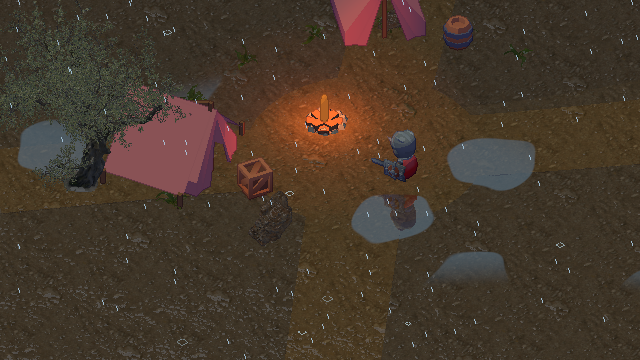
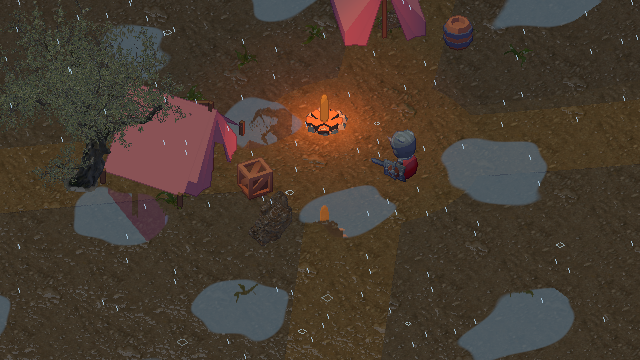
Distribute puddles across terrain and add player footfall water splashes

diff --git a/Assets/Editor/PuddleWorldVerification.cs b/Assets/Editor/PuddleWorldVerification.cs
@@ -1,0 +1,79 @@
+using System;
+using System.Collections.Generic;
+using System.IO;
+using UnityEditor;
+using UnityEditor.SceneManagement;
+using UnityEngine;
+
+namespace PixelArtLab.Editor
+{
+    public static class PuddleWorldVerification
+    {
+        static int stage,baseline;static float started;static double timeout;
+        static WorldEnvironment env;static PuddleFootsteps steps;static ExplorerMotor player;
+        static Vector3 wetPoint;static readonly List<string> report=new List<string>();
+        static void Require(bool condition,string message){if(!condition)throw new Exception(message);}
+        public static void Distribution()
+        {
+            EditorSceneManager.OpenScene(DetailedWoodlandBuilder.ScenePath);env=UnityEngine.Object.FindFirstObjectByType<WorldEnvironment>();env.SetWeather(ValleyWeather.Rain,true);env.hour=13;env.Apply();
+            int pools=0,outside=0;float min=100,max=-100;var quadrants=new int[4];
+            for(int x=-68;x<=68;x+=2)for(int z=-68;z<=68;z+=2)
+            {
+                if(!PuddleSurface.Ground(new Vector3(x,OpenWorldSceneBuilder.Height(x,z)+.1f,z),out var hit))continue;
+                if(PuddleSurface.Coverage(hit.point,hit.normal,1,0)<.5f)continue;
+                pools++;min=Mathf.Min(min,hit.point.y);max=Mathf.Max(max,hit.point.y);if(Mathf.Abs(hit.point.y-1.1f)>.3f)outside++;quadrants[(x>0?1:0)+(z>0?2:0)]++;
+            }
+            Require(outside>200&&max-min>1,"Puddles still constrained to altitude band");foreach(int n in quadrants)Require(n>50,"Missing puddles in a map quadrant");
+            var camera=env.worldCamera;camera.aspect=640f/360;camera.orthographicSize=58;camera.transform.position=new Vector3(0,1,0)-camera.transform.forward*100;camera.farClipPlane=260;
+            var reflection=GameObject.Find("Walkable hills and connected trails").GetComponent<DetailWaterReflection>();reflection.Refresh();OpenWorldSceneBuilder.Capture(camera,"Previews/32-Mapwide-Rain-Puddles.png");
+            File.WriteAllText("Previews/Puddle-Distribution-Verification.txt",$"MAPWIDE_PUDDLES_SUCCESS\nWet samples: {pools}; outside old height band: {outside}\nHeight range: {min:F2}m to {max:F2}m\nQuadrants: {string.Join(", ",quadrants)}\nAll four quadrants and multiple elevations: PASS\nNO PLAYER BUILD\n");Debug.Log("MAPWIDE_PUDDLES_SUCCESS");
+        }
+        public static void Play(){EditorSceneManager.OpenScene(DetailedWoodlandBuilder.ScenePath);SessionState.SetBool("Puddle.Verify",true);EditorApplication.isPlaying=true;}
+        [InitializeOnLoadMethod]static void Resume(){if(SessionState.GetBool("Puddle.Verify",false)){stage=0;timeout=EditorApplication.timeSinceStartup+60;EditorApplication.update+=Tick;}}
+        static void Tick()
+        {
+            if(!Application.isPlaying)return;
+            try
+            {
+                Require(EditorApplication.timeSinceStartup<timeout,"Puddle interaction test timed out at stage "+stage);
+                if(stage==0)
+                {
+                    env=UnityEngine.Object.FindFirstObjectByType<WorldEnvironment>();steps=UnityEngine.Object.FindFirstObjectByType<PuddleFootsteps>();player=env.player;
+                    Require(steps,"Footstep component not saved");env.runClock=false;env.hour=13;env.SetWeather(ValleyWeather.Rain,true);player.externalControl=true;player.externalMove=Vector2.zero;
+                    Vector3 forward=player.cameraTransform.forward;forward.y=0;forward.Normalize();bool found=false;
+                    for(int x=-15;x<=15&&!found;x++)for(int z=-15;z<=15&&!found;z++)
+                    {
+                        Vector3 p=new Vector3(x,OpenWorldSceneBuilder.Height(x,z)+.1f,z);if(!PuddleSurface.Ground(p,out var hit)||PuddleSurface.Coverage(hit.point,hit.normal,1,0)<.95f)continue;
+                        bool fits=true;for(float d=0;d<2;d+=.35f){Vector3 q=hit.point+forward*d;if(!PuddleSurface.Ground(q,out var h)||PuddleSurface.Coverage(h.point,h.normal,1,0)<.7f)fits=false;}
+                        if(fits){wetPoint=hit.point;found=true;}
+                    }
+                    Require(found,"No walkable water patch found");player.Teleport(wetPoint+Vector3.up*.1f);started=Time.time;stage=1;
+                }
+                else if(stage==1&&Time.time-started>.8f)
+                {
+                    Require(player.Grounded,"Player did not settle");baseline=steps.EmittedCount;player.externalMove=Vector2.up;started=Time.time;stage=2;
+                }
+                else if(stage==2&&steps.EmittedCount>baseline)
+                {
+                    player.externalMove=Vector2.zero;steps.Refresh(Time.time+.32f);Require(steps.GetComponent<MeshFilter>().sharedMesh.vertexCount>40,"No ring / droplet geometry");
+                    var reflection=GameObject.Find("Walkable hills and connected trails").GetComponent<DetailWaterReflection>();reflection.Refresh();OpenWorldSceneBuilder.Capture(env.worldCamera,"Previews/33-Puddle-Footstep-Splash.png");
+                    report.Add("Walking on visible water emits expanding rings and droplets: PASS");started=Time.time;stage=3;
+                }
+                else if(stage==3&&Time.time-started>1.2f)
+                {
+                    Require(steps.GetComponent<MeshFilter>().sharedMesh.vertexCount==0,"Old splash geometry did not expire");baseline=steps.EmittedCount;
+                    env.SetWeather(ValleyWeather.Clear,true);Require(!steps.TryStep(wetPoint),"Dry ground emitted a splash");env.SetWeather(ValleyWeather.Snow,true);Require(!steps.TryStep(wetPoint),"Snow emitted a splash");Require(steps.EmittedCount==baseline,"Dry / snow changed splash count");report.Add("Stopped rings expire; dry ground and snow suppress splashes: PASS");
+                    env.SetWeather(ValleyWeather.Rain,true);player.Teleport(wetPoint+Vector3.up*.1f);started=Time.time;stage=4;
+                }
+                else if(stage==4&&Time.time-started>.6f){Require(player.Grounded,"Cannot start jump");baseline=steps.EmittedCount;player.QueueJump();started=Time.time;stage=5;}
+                else if(stage==5&&Time.time-started>.25f){Require(!player.Grounded,"Jump did not leave ground");Require(steps.EmittedCount==baseline,"Airborne player emitted footsteps");report.Add("Airborne player does not emit water steps: PASS");stage=6;}
+                else if(stage==6&&Time.time-started>1.2f){Require(player.Grounded&&steps.EmittedCount>baseline,"Landing did not splash");report.Add("Landing in puddle emits a stronger splash: PASS");Finish(true);}
+            }
+            catch(Exception e){report.Add(e.ToString());Finish(false);}
+        }
+        static void Finish(bool success)
+        {
+            EditorApplication.update-=Tick;SessionState.SetBool("Puddle.Verify",false);report.Insert(0,success?"PUDDLE_INTERACTION_SUCCESS":"PUDDLE_INTERACTION_FAILED");File.WriteAllLines("Previews/Puddle-Interaction-Verification.txt",report);Debug.Log(string.Join("\n",report));EditorApplication.isPlaying=false;EditorApplication.Exit(success?0:1);
+        }
+    }
+}

diff --git a/Assets/Scripts/PuddleFootsteps.cs b/Assets/Scripts/PuddleFootsteps.cs
@@ -1,0 +1,99 @@
+using System.Collections.Generic;
+using UnityEngine;
+using UnityEngine.Rendering;
+
+namespace PixelArtLab
+{
+    [DefaultExecutionOrder(130)]
+    public sealed class PuddleFootsteps : MonoBehaviour
+    {
+        public ExplorerMotor player;
+        public WorldEnvironment environment;
+        public int EmittedCount {get;private set;}
+        struct Step {public Vector3 position,normal;public float birth,strength;}
+        readonly Step[] steps=new Step[12];
+        readonly List<Vector3> vertices=new List<Vector3>();
+        readonly List<Color> colors=new List<Color>();
+        readonly List<int> triangles=new List<int>();
+        Mesh mesh;Material material;
+        Vector3 previous;float distance;int next,foot;bool grounded,initialized;
+        void Ensure()
+        {
+            if(mesh)return;
+            mesh=new Mesh{name="Puddle footfall rings and droplets"};mesh.MarkDynamic();
+            var filter=GetComponent<MeshFilter>();if(!filter)filter=gameObject.AddComponent<MeshFilter>();filter.sharedMesh=mesh;
+            var renderer=GetComponent<MeshRenderer>();if(!renderer)renderer=gameObject.AddComponent<MeshRenderer>();
+            material=new Material(Shader.Find("PixelArtLab/Weather Particles")){hideFlags=HideFlags.HideAndDontSave};renderer.sharedMaterial=material;
+            renderer.shadowCastingMode=ShadowCastingMode.Off;renderer.receiveShadows=false;gameObject.layer=13;
+            for(int i=0;i<steps.Length;i++)steps[i].birth=-100;
+        }
+        void LateUpdate()
+        {
+            Ensure();if(!player||!environment)return;
+            Vector3 current=player.transform.position;
+            if(!initialized){previous=current;grounded=player.Grounded;initialized=true;}
+            Vector3 delta=current-previous;delta.y=0;
+            if(delta.magnitude>4){distance=0;grounded=player.Grounded;}
+            else if(player.Grounded)
+            {
+                if(!grounded)TryStep(current,1.6f);
+                if(delta.magnitude>.001f&&player.HorizontalSpeed>.3f)
+                {
+                    distance+=delta.magnitude;
+                    if(distance>=(player.HorizontalSpeed>5?1.35f:1.1f))
+                    {
+                        distance=0;Vector3 side=Vector3.Cross(Vector3.up,delta.normalized)*((foot++%2==0?1:-1)*.13f);
+                        TryStep(current+side,player.HorizontalSpeed>5?1.25f:1);
+                    }
+                }
+                else distance=0;
+            }
+            previous=current;grounded=player.Grounded;Refresh(Time.time);
+        }
+        public bool TryStep(Vector3 position,float strength=1)
+        {
+            if(!environment||!PuddleSurface.Ground(position,out var hit))return false;
+            if(PuddleSurface.Coverage(hit.point,hit.normal,environment.wetness,environment.snowCover)<.3f)return false;
+            Ensure();steps[next]=new Step{position=hit.point+hit.normal*.055f,normal=hit.normal,birth=Time.time,strength=strength};next=(next+1)%steps.Length;EmittedCount++;return true;
+        }
+        public void Refresh(float now)
+        {
+            Ensure();vertices.Clear();colors.Clear();triangles.Clear();
+            var camera=environment?environment.worldCamera:null;if(!camera)return;
+            foreach(var step in steps)
+            {
+                float age=now-step.birth;if(age<0||age>.85f)continue;
+                Vector3 right=Vector3.Cross(step.normal,Vector3.forward).normalized,forward=Vector3.Cross(right,step.normal).normalized;
+                float radius=(.1f+age*1.5f)*step.strength,thickness=.025f;
+                for(int i=0;i<20;i++)
+                {
+                    float a=i*Mathf.PI/10,b=(i+1)*Mathf.PI/10;
+                    Vector3 u=right*Mathf.Cos(a)+forward*Mathf.Sin(a),v=right*Mathf.Cos(b)+forward*Mathf.Sin(b);
+                    Vector3 middle=step.position+(u+v)*radius*.5f;
+                    if(PuddleSurface.Coverage(middle,step.normal,environment.wetness,environment.snowCover)<.2f)continue;
+                    Quad(step.position+u*(radius-thickness),step.position+v*(radius-thickness),step.position+v*(radius+thickness),step.position+u*(radius+thickness),new Color(.69f,.89f,.94f,(1-age/.85f)*.8f));
+                }
+                if(age<.45f)for(int i=0;i<6;i++)
+                {
+                    float angle=i*Mathf.PI/3;Vector3 direction=right*Mathf.Cos(angle)+forward*Mathf.Sin(angle);
+                    Vector3 position=step.position+direction*age*.9f*step.strength+step.normal*(age*(1.5f+(i%3)*.25f)-age*age*4);
+                    if(Vector3.Dot(position-step.position,step.normal)<0)continue;
+                    float size=.027f;Vector3 x=camera.transform.right*size,y=camera.transform.up*size;
+                    Quad(position-x-y,position+x-y,position+x+y,position-x+y,new Color(.78f,.94f,1,1-age/.45f));
+                }
+            }
+            mesh.Clear();mesh.SetVertices(vertices);mesh.SetColors(colors);mesh.SetTriangles(triangles,0);mesh.RecalculateBounds();
+        }
+        void Quad(Vector3 a,Vector3 b,Vector3 c,Vector3 d,Color color)
+        {
+            int i=vertices.Count;vertices.Add(a);vertices.Add(b);vertices.Add(c);vertices.Add(d);for(int n=0;n<4;n++)colors.Add(color);
+            triangles.Add(i);triangles.Add(i+1);triangles.Add(i+2);triangles.Add(i);triangles.Add(i+2);triangles.Add(i+3);
+        }
+        void OnDisable()
+        {
+            if(mesh){if(Application.isPlaying)Destroy(mesh);else DestroyImmediate(mesh);}
+            if(material){if(Application.isPlaying)Destroy(material);else DestroyImmediate(material);}
+            mesh=null;material=null;initialized=false;
+        }
+    }
+}

diff --git a/Assets/Scripts/DetailWaterReflection.cs b/Assets/Scripts/DetailWaterReflection.cs
@@ -11,6 +11,7 @@ namespace PixelArtLab
         public string textureProperty="_DetailReflection";
         public float waterHeight=.3f;
         public bool reflections=true;
+        public Transform groundAnchor;
         Camera mirror;
         RenderTexture texture;
         bool rendering;
@@ -22,6 +23,7 @@ namespace PixelArtLab
             if(rendering||!source||!waterMaterial||!reflections)return;
             if(Shader.GetGlobalFloat("_LabReflectionDisabled")>.5)return;
             if(textureProperty=="_PuddleReflection"&&Shader.GetGlobalVector("_LabEnvironment").z<.22f)return;
+            if(groundAnchor&&PuddleSurface.Ground(groundAnchor.position,out var ground))waterHeight=ground.point.y;
             lastTime=Time.unscaledTime;
             if(!mirror){var g=new GameObject("Detail Water Reflection Camera"){hideFlags=HideFlags.HideAndDontSave};mirror=g.AddComponent<Camera>();mirror.enabled=false;}
             if(!texture){texture=new RenderTexture(640,360,24){name="Woodland Planar Reflection",filterMode=FilterMode.Bilinear,hideFlags=HideFlags.HideAndDontSave};texture.Create();}
@@ -39,6 +41,12 @@ namespace PixelArtLab
                 mirror.projectionMatrix=source.CalculateObliqueMatrix(plane);
                 GL.invertCulling=!previous;Shader.SetGlobalFloat("_LabReflectionPass",1);mirror.Render();waterMaterial.SetTexture(textureProperty,texture);
                 if(additionalMaterials!=null)foreach(var material in additionalMaterials)if(material)material.SetTexture(textureProperty,texture);
+                if(textureProperty=="_PuddleReflection")
+                {
+                    var projection=GL.GetGPUProjectionMatrix(mirror.projectionMatrix,true)*mirror.worldToCameraMatrix;
+                    waterMaterial.SetMatrix("_PuddleProjection",projection);waterMaterial.SetFloat("_PuddleCaptureHeight",waterHeight);
+                    if(additionalMaterials!=null)foreach(var material in additionalMaterials)if(material){material.SetMatrix("_PuddleProjection",projection);material.SetFloat("_PuddleCaptureHeight",waterHeight);}
+                }
             }
             finally{GL.invertCulling=previous;Shader.SetGlobalFloat("_LabReflectionPass",previousPass);rendering=false;}
         }

diff --git a/Assets/Editor/RainPuddleUpgrade.cs b/Assets/Editor/RainPuddleUpgrade.cs
@@ -13,10 +13,14 @@ namespace PixelArtLab.Editor
         {
             var ground=GameObject.Find("Walkable hills and connected trails");
             var soil=ground.GetComponent<MeshRenderer>().sharedMaterial;
-            var trail=GameObject.Find("Connected dirt trails").GetComponent<MeshRenderer>().sharedMaterial;
-            foreach(var material in new[]{soil,trail}){material.SetFloat("_Puddles",1);material.SetFloat("_PuddleHeight",1.1f);EditorUtility.SetDirty(material);}
+            var trailObject=GameObject.Find("Connected dirt trails");var trail=trailObject.GetComponent<MeshRenderer>().sharedMaterial;
+            // Rendered trail ribbons sit above terrain; footsteps must hit that visible surface.
+            var trailCollider=trailObject.GetComponent<MeshCollider>();if(!trailCollider)trailCollider=trailObject.AddComponent<MeshCollider>();trailCollider.sharedMesh=trailObject.GetComponent<MeshFilter>().sharedMesh;
+            foreach(var material in new[]{soil,trail}){material.SetFloat("_Puddles",1);EditorUtility.SetDirty(material);}
             var reflection=ground.GetComponent<DetailWaterReflection>();if(!reflection)reflection=ground.AddComponent<DetailWaterReflection>();
             reflection.source=camera;reflection.waterMaterial=soil;reflection.additionalMaterials=new[]{trail};reflection.textureProperty="_PuddleReflection";reflection.waterHeight=1.1f;
+            var env=UnityEngine.Object.FindFirstObjectByType<WorldEnvironment>();reflection.groundAnchor=env.player.transform;
+            var steps=UnityEngine.Object.FindFirstObjectByType<PuddleFootsteps>();if(!steps)steps=new GameObject("Puddle footstep rings and splashes").AddComponent<PuddleFootsteps>();steps.player=env.player;steps.environment=env;
             return reflection;
         }
         static Color32[] Render(Camera camera)

diff --git a/Assets/Scripts/PuddleSurface.cs b/Assets/Scripts/PuddleSurface.cs
@@ -1,0 +1,30 @@
+using UnityEngine;
+
+namespace PixelArtLab
+{
+    // Keep in sync with Shaders/PuddleMask.cginc: interaction must follow visible water.
+    public static class PuddleSurface
+    {
+        static float Seed(int x,int z)
+        {
+            unchecked{uint h=(uint)x*374761393u+(uint)z*668265263u+7919u;h=(h^(h>>13))*1274126177u;h^=h>>16;return (h&65535u)/65535f;}
+        }
+        static float Smooth(float a,float b,float x){float t=Mathf.Clamp01((x-a)/(b-a));return t*t*(3-2*t);}
+        public static float Coverage(Vector3 p,Vector3 normal,float wetness,float snow)
+        {
+            int x=Mathf.FloorToInt(p.x/6),z=Mathf.FloorToInt(p.z/6);float seed=Seed(x,z),second=Seed(x+73,z+19);
+            var offset=new Vector2(p.x/6-x-(.25f+seed*.5f),p.z/6-z-(.25f+second*.5f));
+            float radius=Vector2.Scale(offset,new Vector2(.8f+second*.65f,.8f+seed*.65f)).magnitude;
+            float shore=Mathf.Sin(p.x*1.7f+Mathf.Sin(p.z*2.1f))*.045f+Mathf.Sin(p.z*4.7f+p.x*.5f)*.02f;
+            float fill=Smooth(.22f,.95f,wetness);
+            return (1-Smooth(.15f+fill*.13f,.175f+fill*.13f,radius+shore))*fill*(seed>=.2f?1:0)*Smooth(.88f,.99f,normal.y)*(1-Mathf.Clamp01(snow*2))*Smooth(.38f,.6f,p.y);
+        }
+        public static bool Ground(Vector3 position,out RaycastHit hit)
+        {
+            if(!Physics.Raycast(position+Vector3.up,Vector3.down,out hit,3,~((1<<8)|(1<<4)|(1<<13)),QueryTriggerInteraction.Ignore))return false;
+            var renderer=hit.collider.GetComponent<MeshRenderer>();if(!renderer)return false;
+            foreach(var material in renderer.sharedMaterials)if(material&&material.HasProperty("_Puddles")&&material.GetFloat("_Puddles")>.5f)return true;
+            return false;
+        }
+    }
+}

diff --git a/Docs/Semi-Real-Woodland.md b/Docs/Semi-Real-Woodland.md
@@ -27,10 +27,14 @@ source-files.json은 공개 API의 다운로드 출처 기록이다.
 - 나뭇잎 텍스처의 투명 경계 색 번짐을 보정해 검은 테두리를 줄인다. 상세 에셋은 내부 선화를 약하게 한다. 노멀 맵의 미세 요철을 선화로 그리지 않는다.
 - 물은 기존 수면 셰이더에 연속 시간의 겹친 파형, 두 방향으로 흐르는 잔물결 노멀과 평면 반사를 추가했다. 반사는 640×360, 최대 20회/초이며 수면·강수는 반사 카메라에서 제외한다.
 - 낮·밤, 횃불, 바람, 비와 눈의 젖음·적설을 새 재질에도 적용한다.
-- 비가 오면 평탄한 야영지·흙길에 불규칙한 물웅덩이가 커진다. 캐릭터·나무·텐트를 실제로 뒤집어 렌더링한 별도 평면 반사와 빗방울 동심원으로 표현한다. Toon에서도 반사는 유지된다.
+- 비가 오면 맵 전역의 완만한 지면·흙길에 불규칙한 물웅덩이가 커진다. 캐릭터·나무·텐트를 실제로 뒤집어 렌더링한 별도 평면 반사와 빗방울 동심원으로 표현한다. Toon에서도 반사는 유지된다.
 - 2로 비를 켜고 몇 초 기다리면 생성된다. 1로 맑게 바꾸면 남은 물기가 서서히 마른다. 눈이 쌓이면 웅덩이를 숨긴다. C로 호수와 웅덩이의 반사를 함께 비교한다.
 
-물웅덩이는 높이 1.1m 부근의 평탄한 지면에 제한한다. 경사·다른 높이의 언덕 전체를 하나의 거울로 만들지 않는다. 물의 실제 유입·지형 침식 시뮬레이션은 없으며, 고정된 위치의 마스크가 젖음에 따라 확장된다. 물이 충분할 때만 웅덩이 반사 카메라가 추가로 동작한다.
+초기 버전의 높이 1.1m 제한은 제거했다. 이 제한이 같은 높이의 등고선을 따라 띠 모양으로 물웅덩이를 만들던 원인이었다. 현재는 맵 전체의 완만한 지면에 6m 셀별로 중심·크기·모양을 달리 배치한다. 급경사와 호수 아래 지면은 제외하며, 같은 맵에서는 위치가 유지된다. `PuddleMask.cginc`와 `PuddleSurface.cs`가 같은 정수 해시와 마스크 수식을 사용해 보이는 물과 발 판정을 맞춘다.
+
+플레이어가 실제 물을 밟고 걸으면 좌우 발 위치에서 파문과 물방울이 생긴다. 달리기와 착지는 더 큰 효과를 내고, 공중·마른 땅·적설 위에서는 생성하지 않는다. 파문은 웅덩이 바깥으로 나가는 부분을 숨기며 짧은 수명 뒤 제거한다. 발 높이가 흙길 아래에 묻히지 않도록 렌더링된 길에도 충돌 표면을 맞췄다.
+
+반사 카메라는 플레이어 발밑 지면의 높이를 따라가고, 높이가 다른 웅덩이의 투영을 보정한다. 근처 반사를 우선하는 한 장의 평면 반사이므로 멀리 있는 서로 다른 높이의 반사는 근사 표현이다. 물 유입·침식 시뮬레이션은 없으며, 물이 충분할 때만 추가 반사 카메라가 동작한다.
 
 완전한 Standard/PBR 셰이딩이나 유체 시뮬레이션은 아니다. GGX는 직접광 근사이며 실시간 평면 반사로 수면의 주변 풍경을 보완한다.
 
@@ -58,4 +62,6 @@ source-files.json은 공개 API의 다운로드 출처 기록이다.
 - 렌더링 검증: `PixelArtLab.Editor.DetailedWoodlandVerification.Run`.
 - Unity Play 모드 이동·충돌·점프 검증: `PixelArtLab.Editor.DetailedWoodlandVerification.Play`.
 - 결과: `Previews/Detailed-Woodland-Verification.txt`, `Previews/Detailed-Woodland-Playtest.txt`.
+- 맵 전역 분포 검증: `PixelArtLab.Editor.PuddleWorldVerification.Distribution`.
+- 발 상호작용 Play 검증: `PixelArtLab.Editor.PuddleWorldVerification.Play`.
 - 실행 파일은 빌드하지 않았다.
